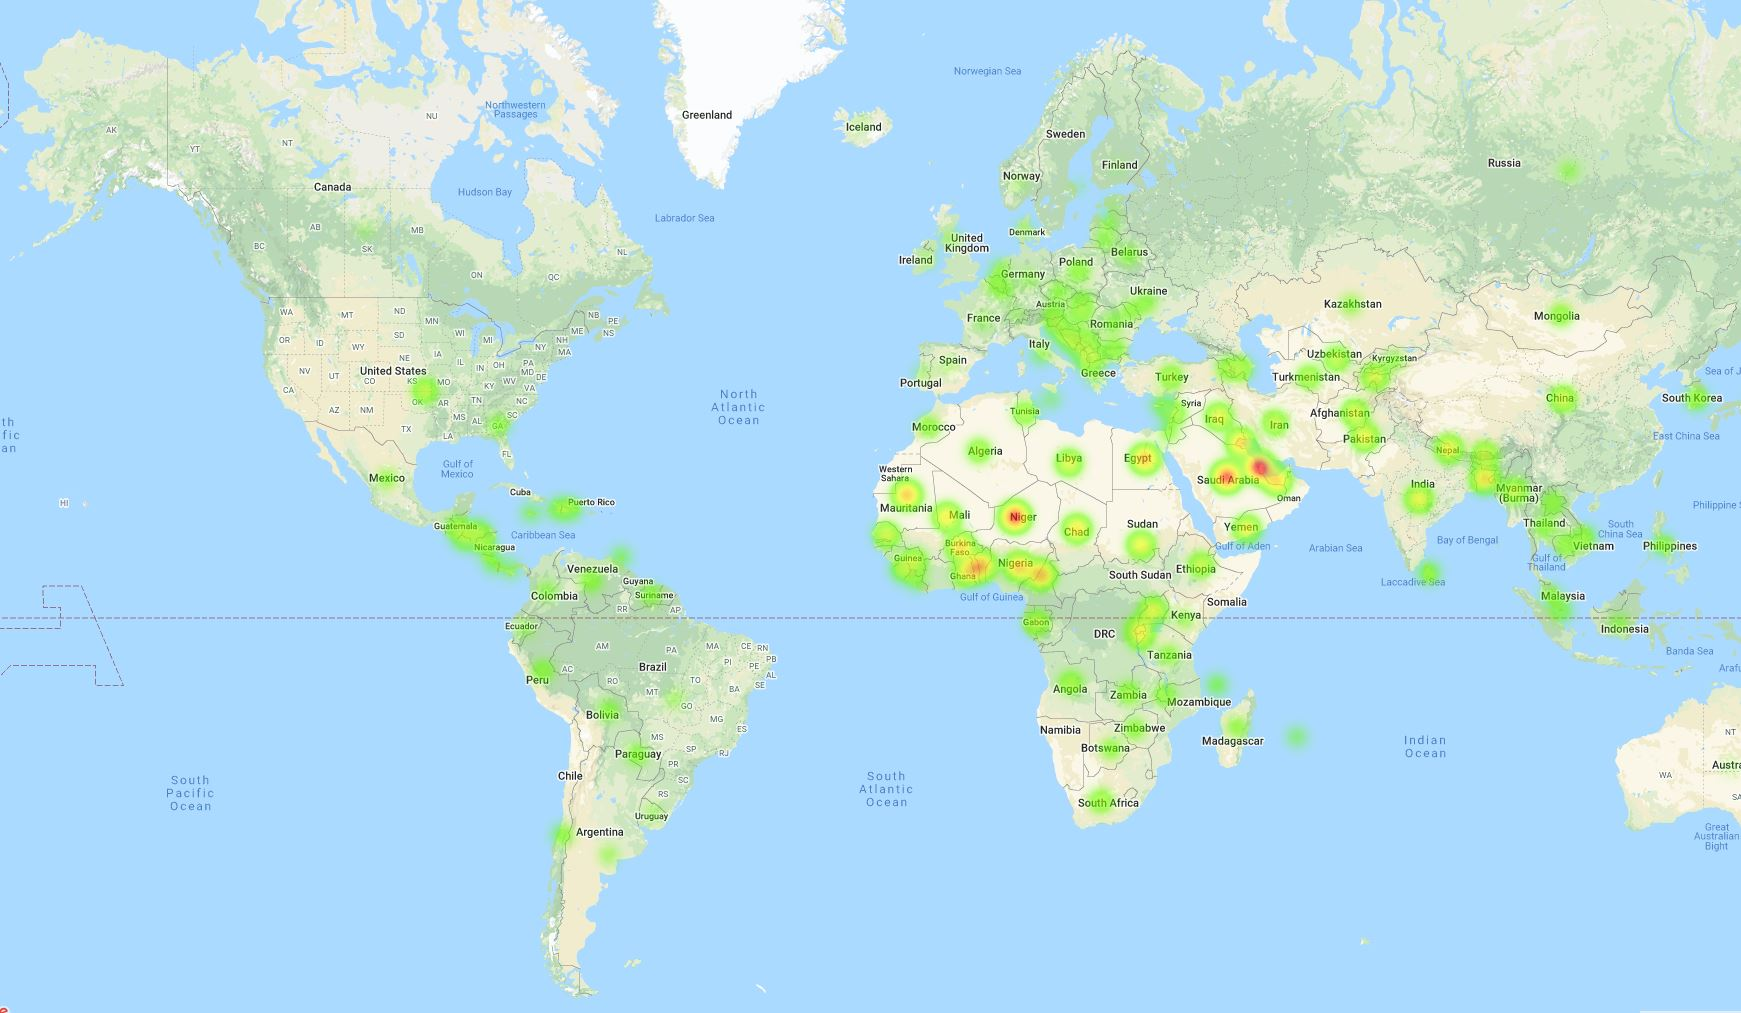
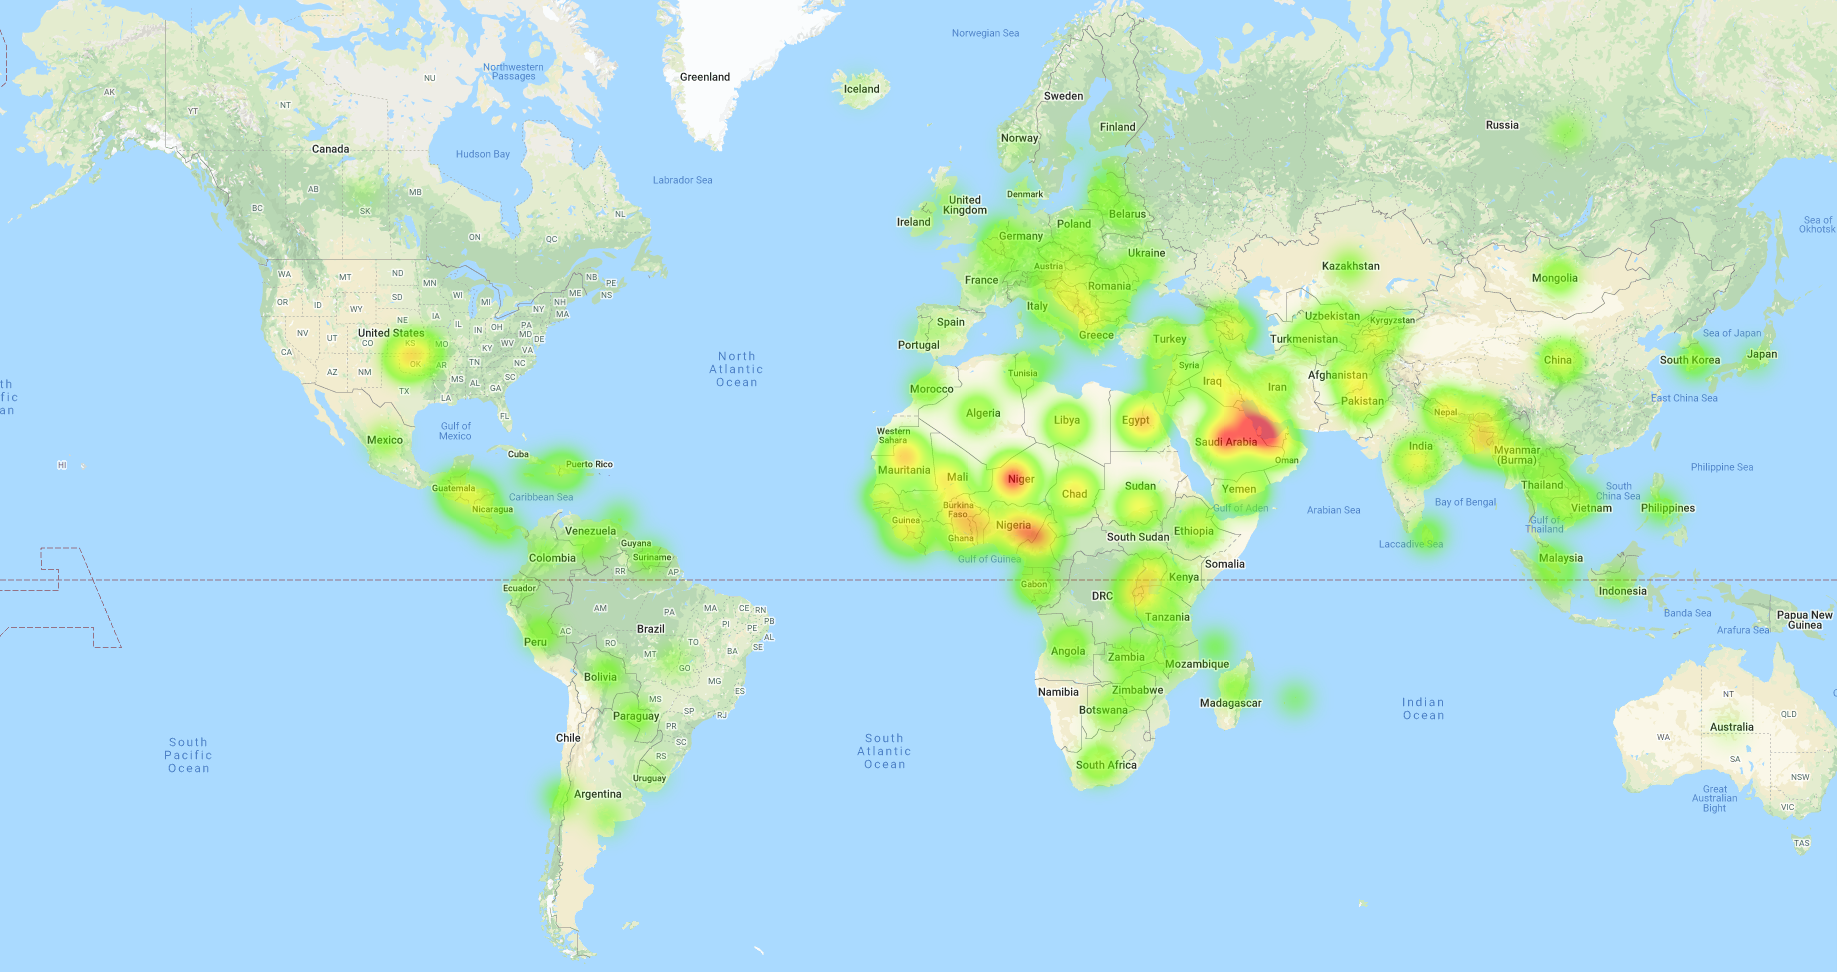
Updated heatmaps and resolved Georgia issue

diff --git a/jason_folder/api_keys.py b/jason_folder/api_keys.py
@@ -1,0 +1,3 @@
+# google maps API key
+
+gmap_key = 'AIzaSyAH33585yZlTCQnS5UWx9o3f3PWDT8Ua7c'
